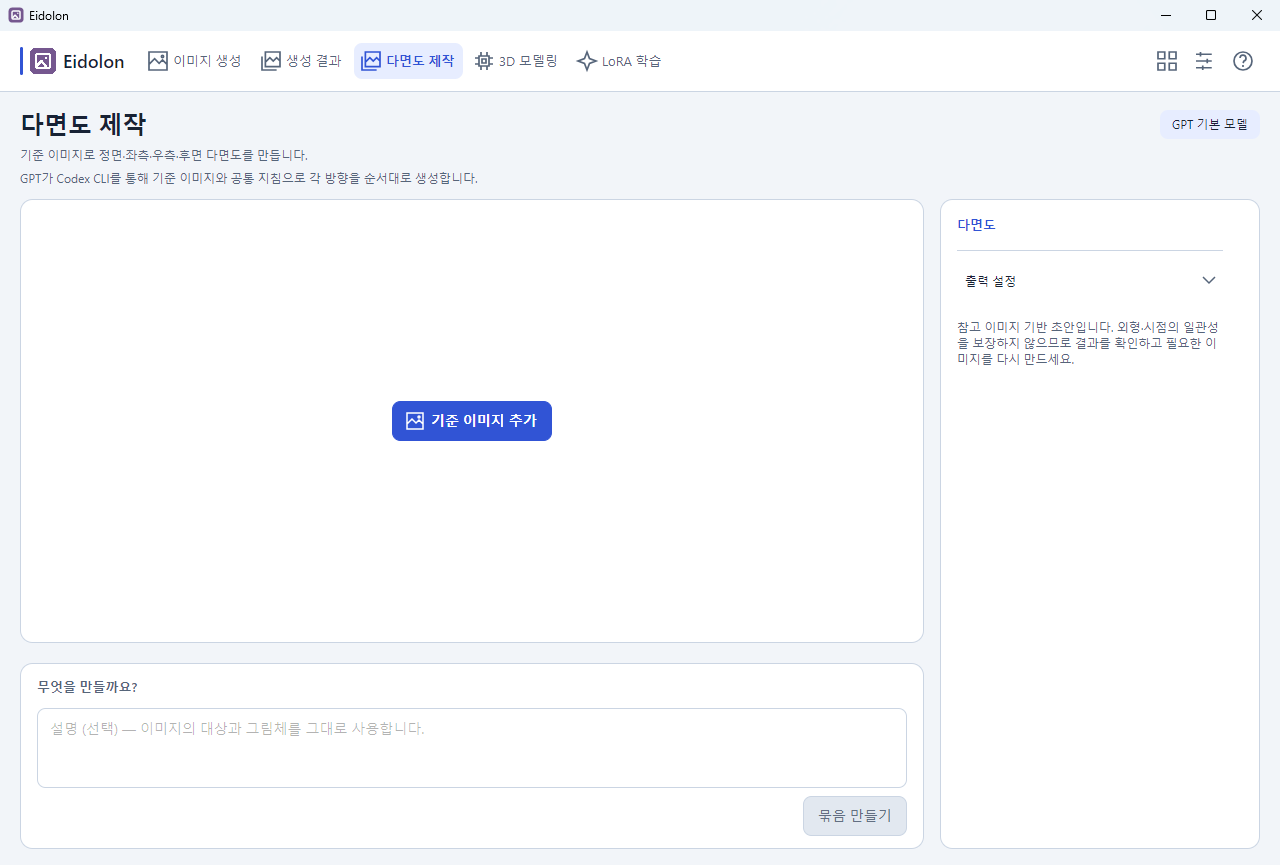
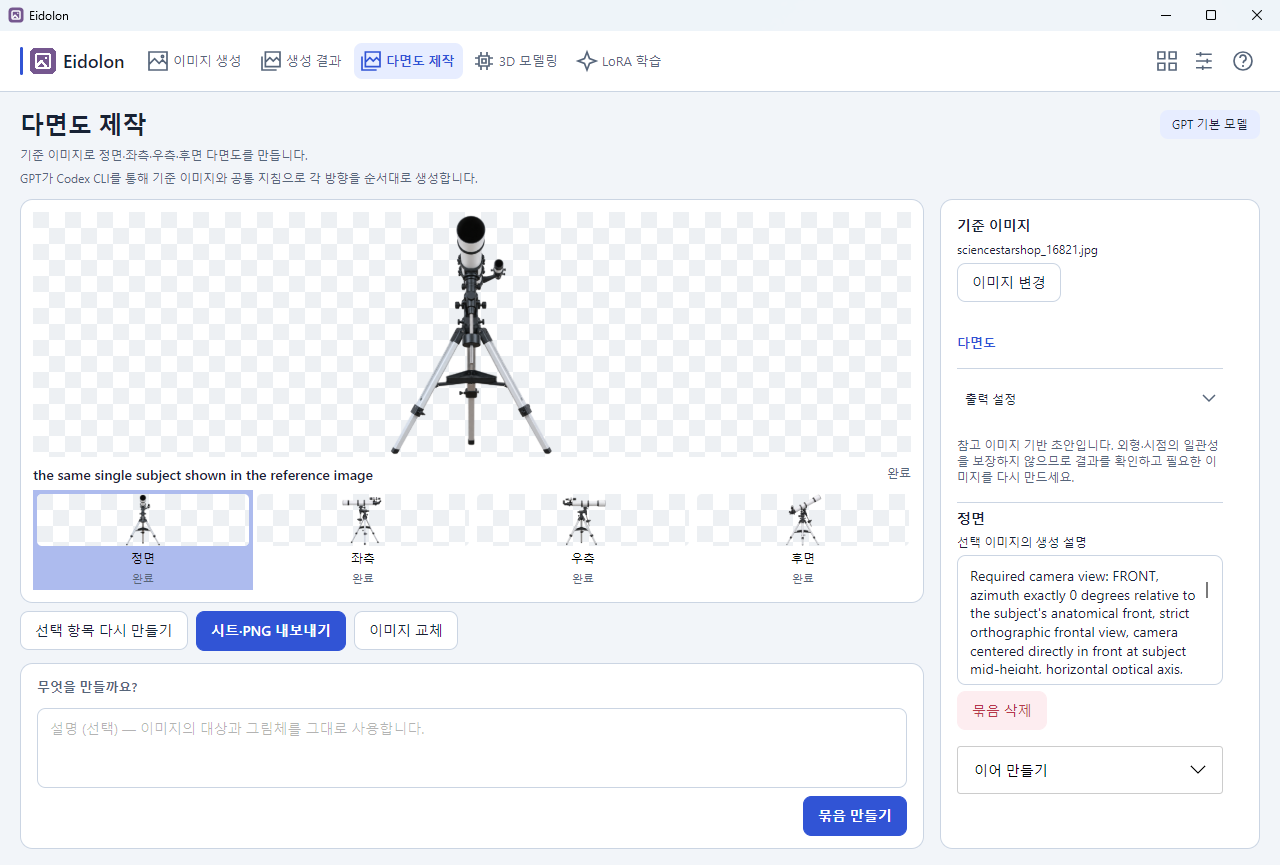
README에 실제 생성과 다면도 결과 화면 반영

diff --git a/README.en.md b/README.en.md
@@ -24,9 +24,9 @@ On Mac, use your installed, signed-in Codex or an external ComfyUI server. Local
 
 ### Image generation
 
-![Image generation](Docs/images/readme-generation.png)
+![Watercolor woodland scene and its prompt in Eidolon](Docs/images/readme-generation.png)
 
-Enter a prompt and choose a model and reference image.
+A watercolor woodland scene generated from a prompt and displayed in the app.
 
 ### Results gallery
 
@@ -36,21 +36,15 @@ Select a result to inspect its image and generation settings.
 
 ### Multi-view creation
 
-![Multi-view creation](Docs/images/readme-asset-creation.png)
+![Four telescope views generated from a reference photo in Eidolon](Docs/images/readme-asset-creation.png)
 
-Set up a job to create front, right, left, and back views from a reference image.
+Front, left, right, and back views generated from one telescope reference photo.
 
 ### 3D modeling
 
 ![Completed model and reference images in the 3D Modeling screen](Docs/images/modeling.png)
 
 Review the completed model alongside its reference images. Save the result as a Blender or GLB file, or continue editing it.
-
-### LoRA training
-
-![LoRA training](Docs/images/readme-training.png)
-
-Add training images to the white or black background lists before configuring training.
 
 ## Core experience
 
